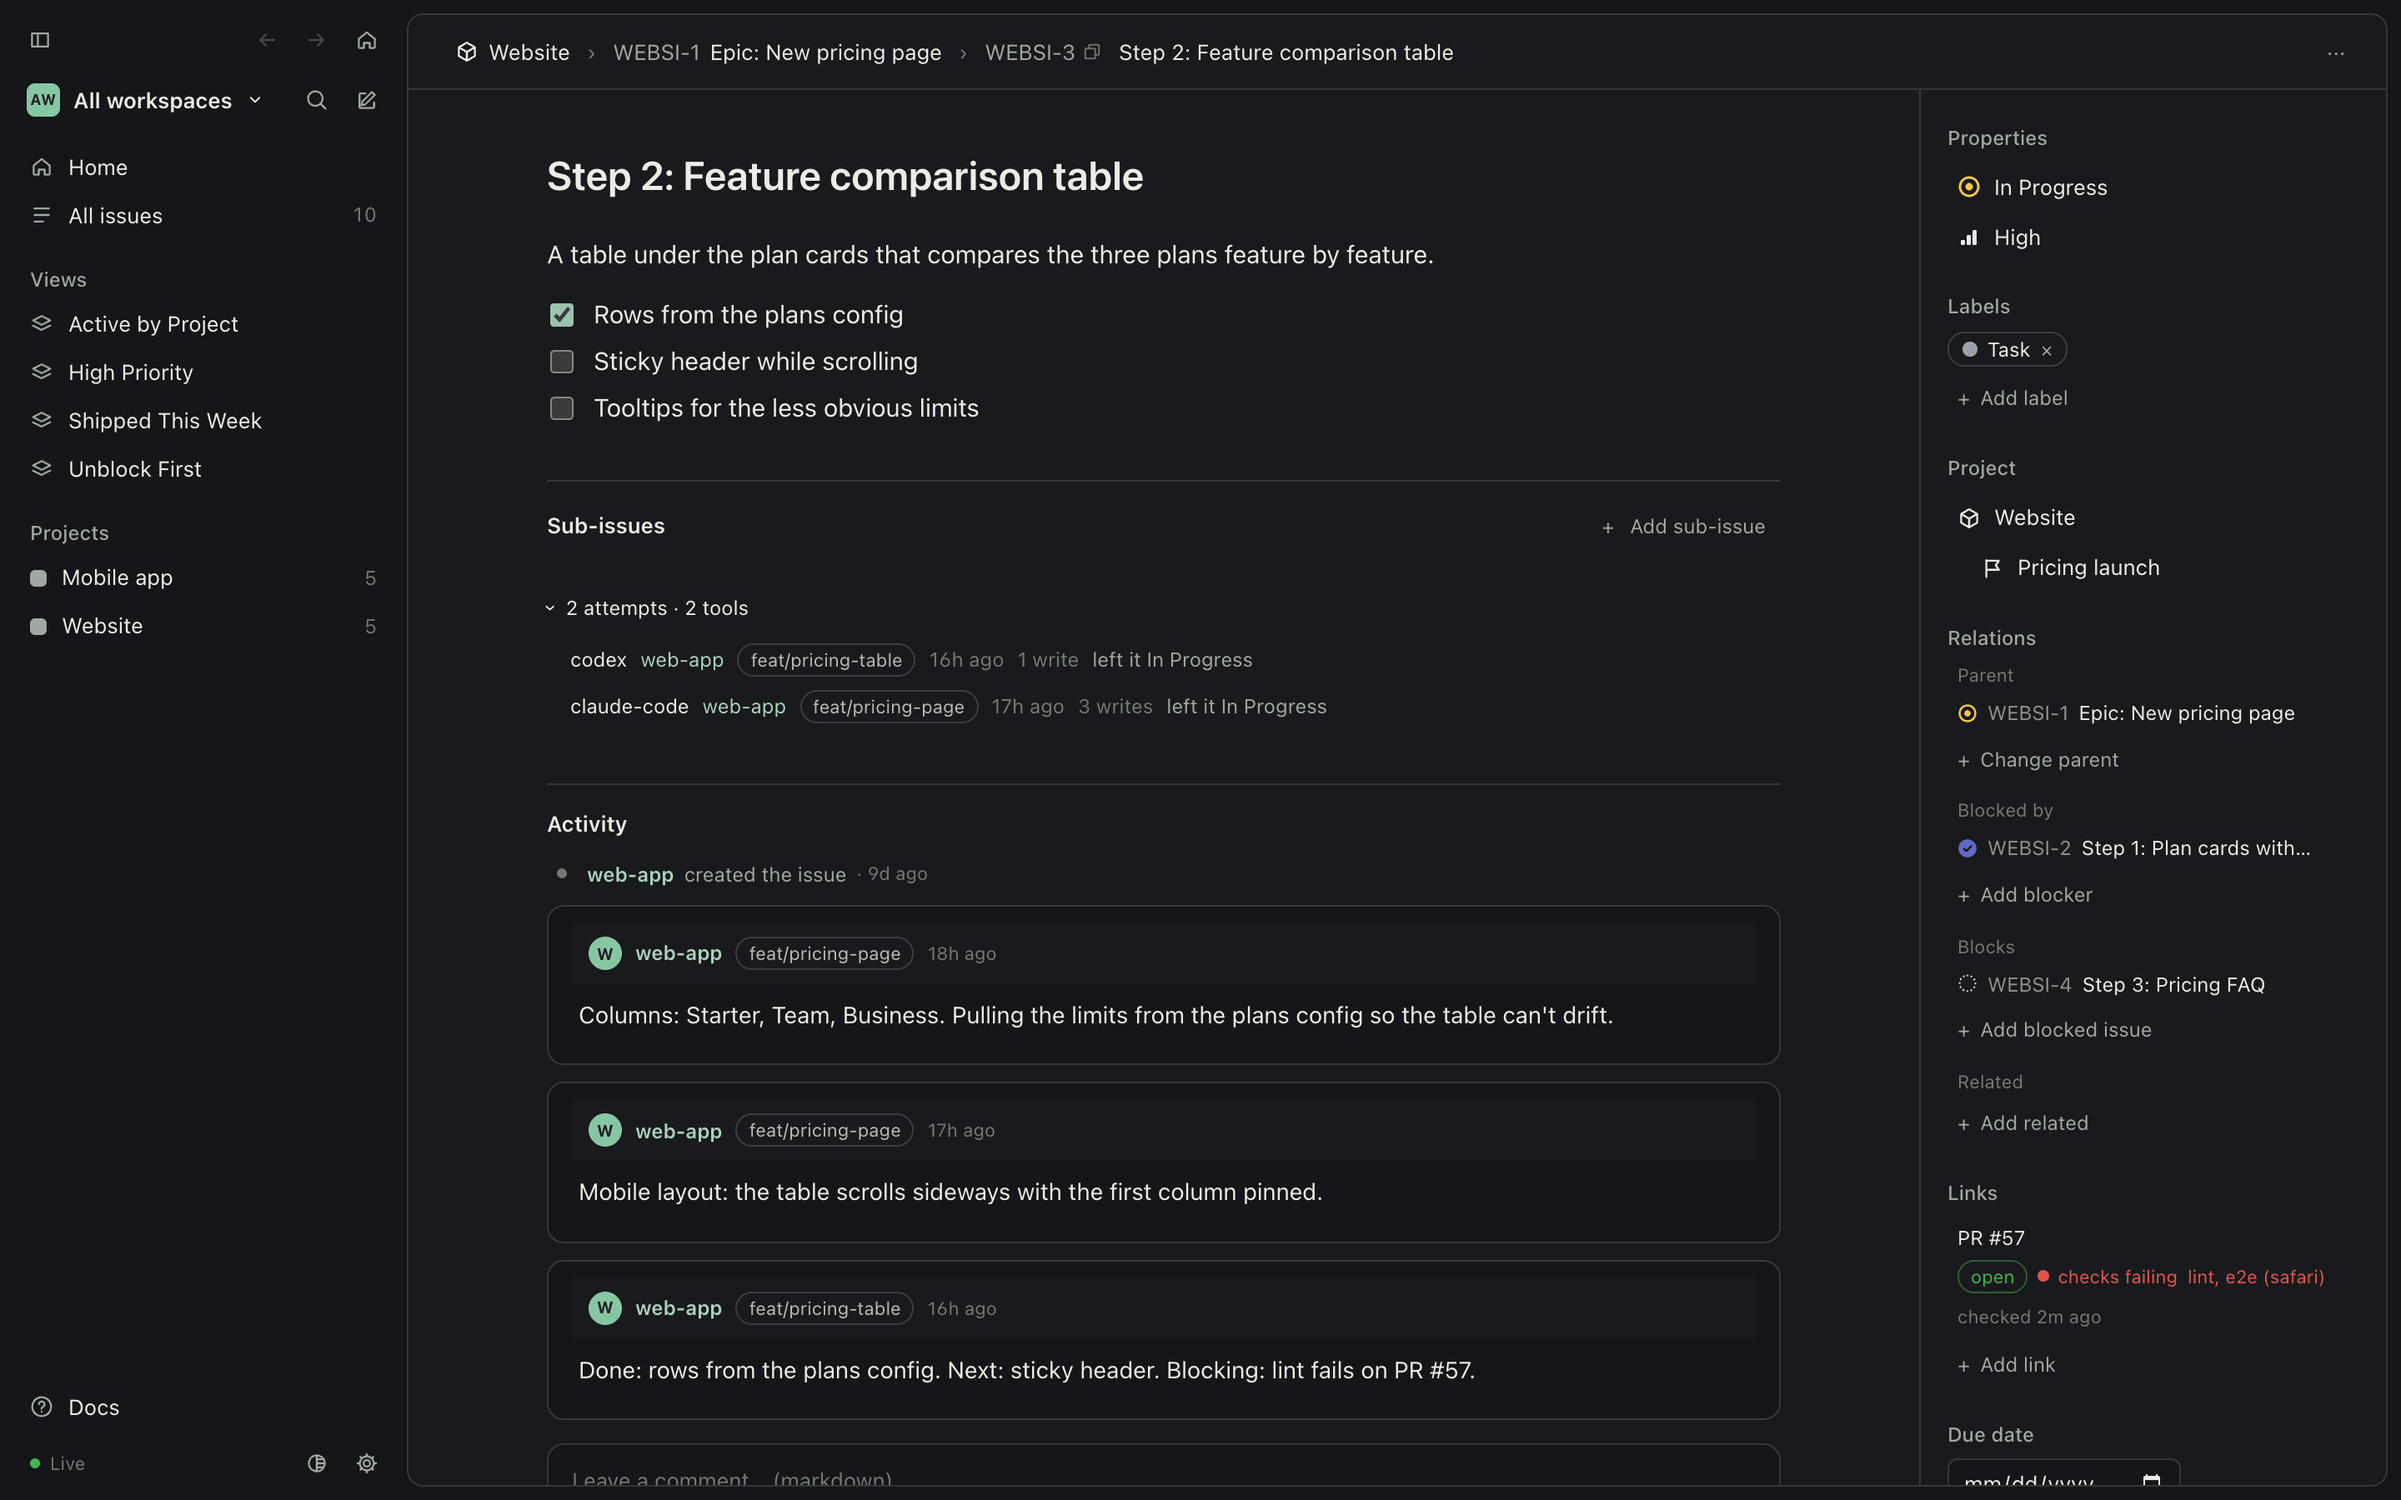
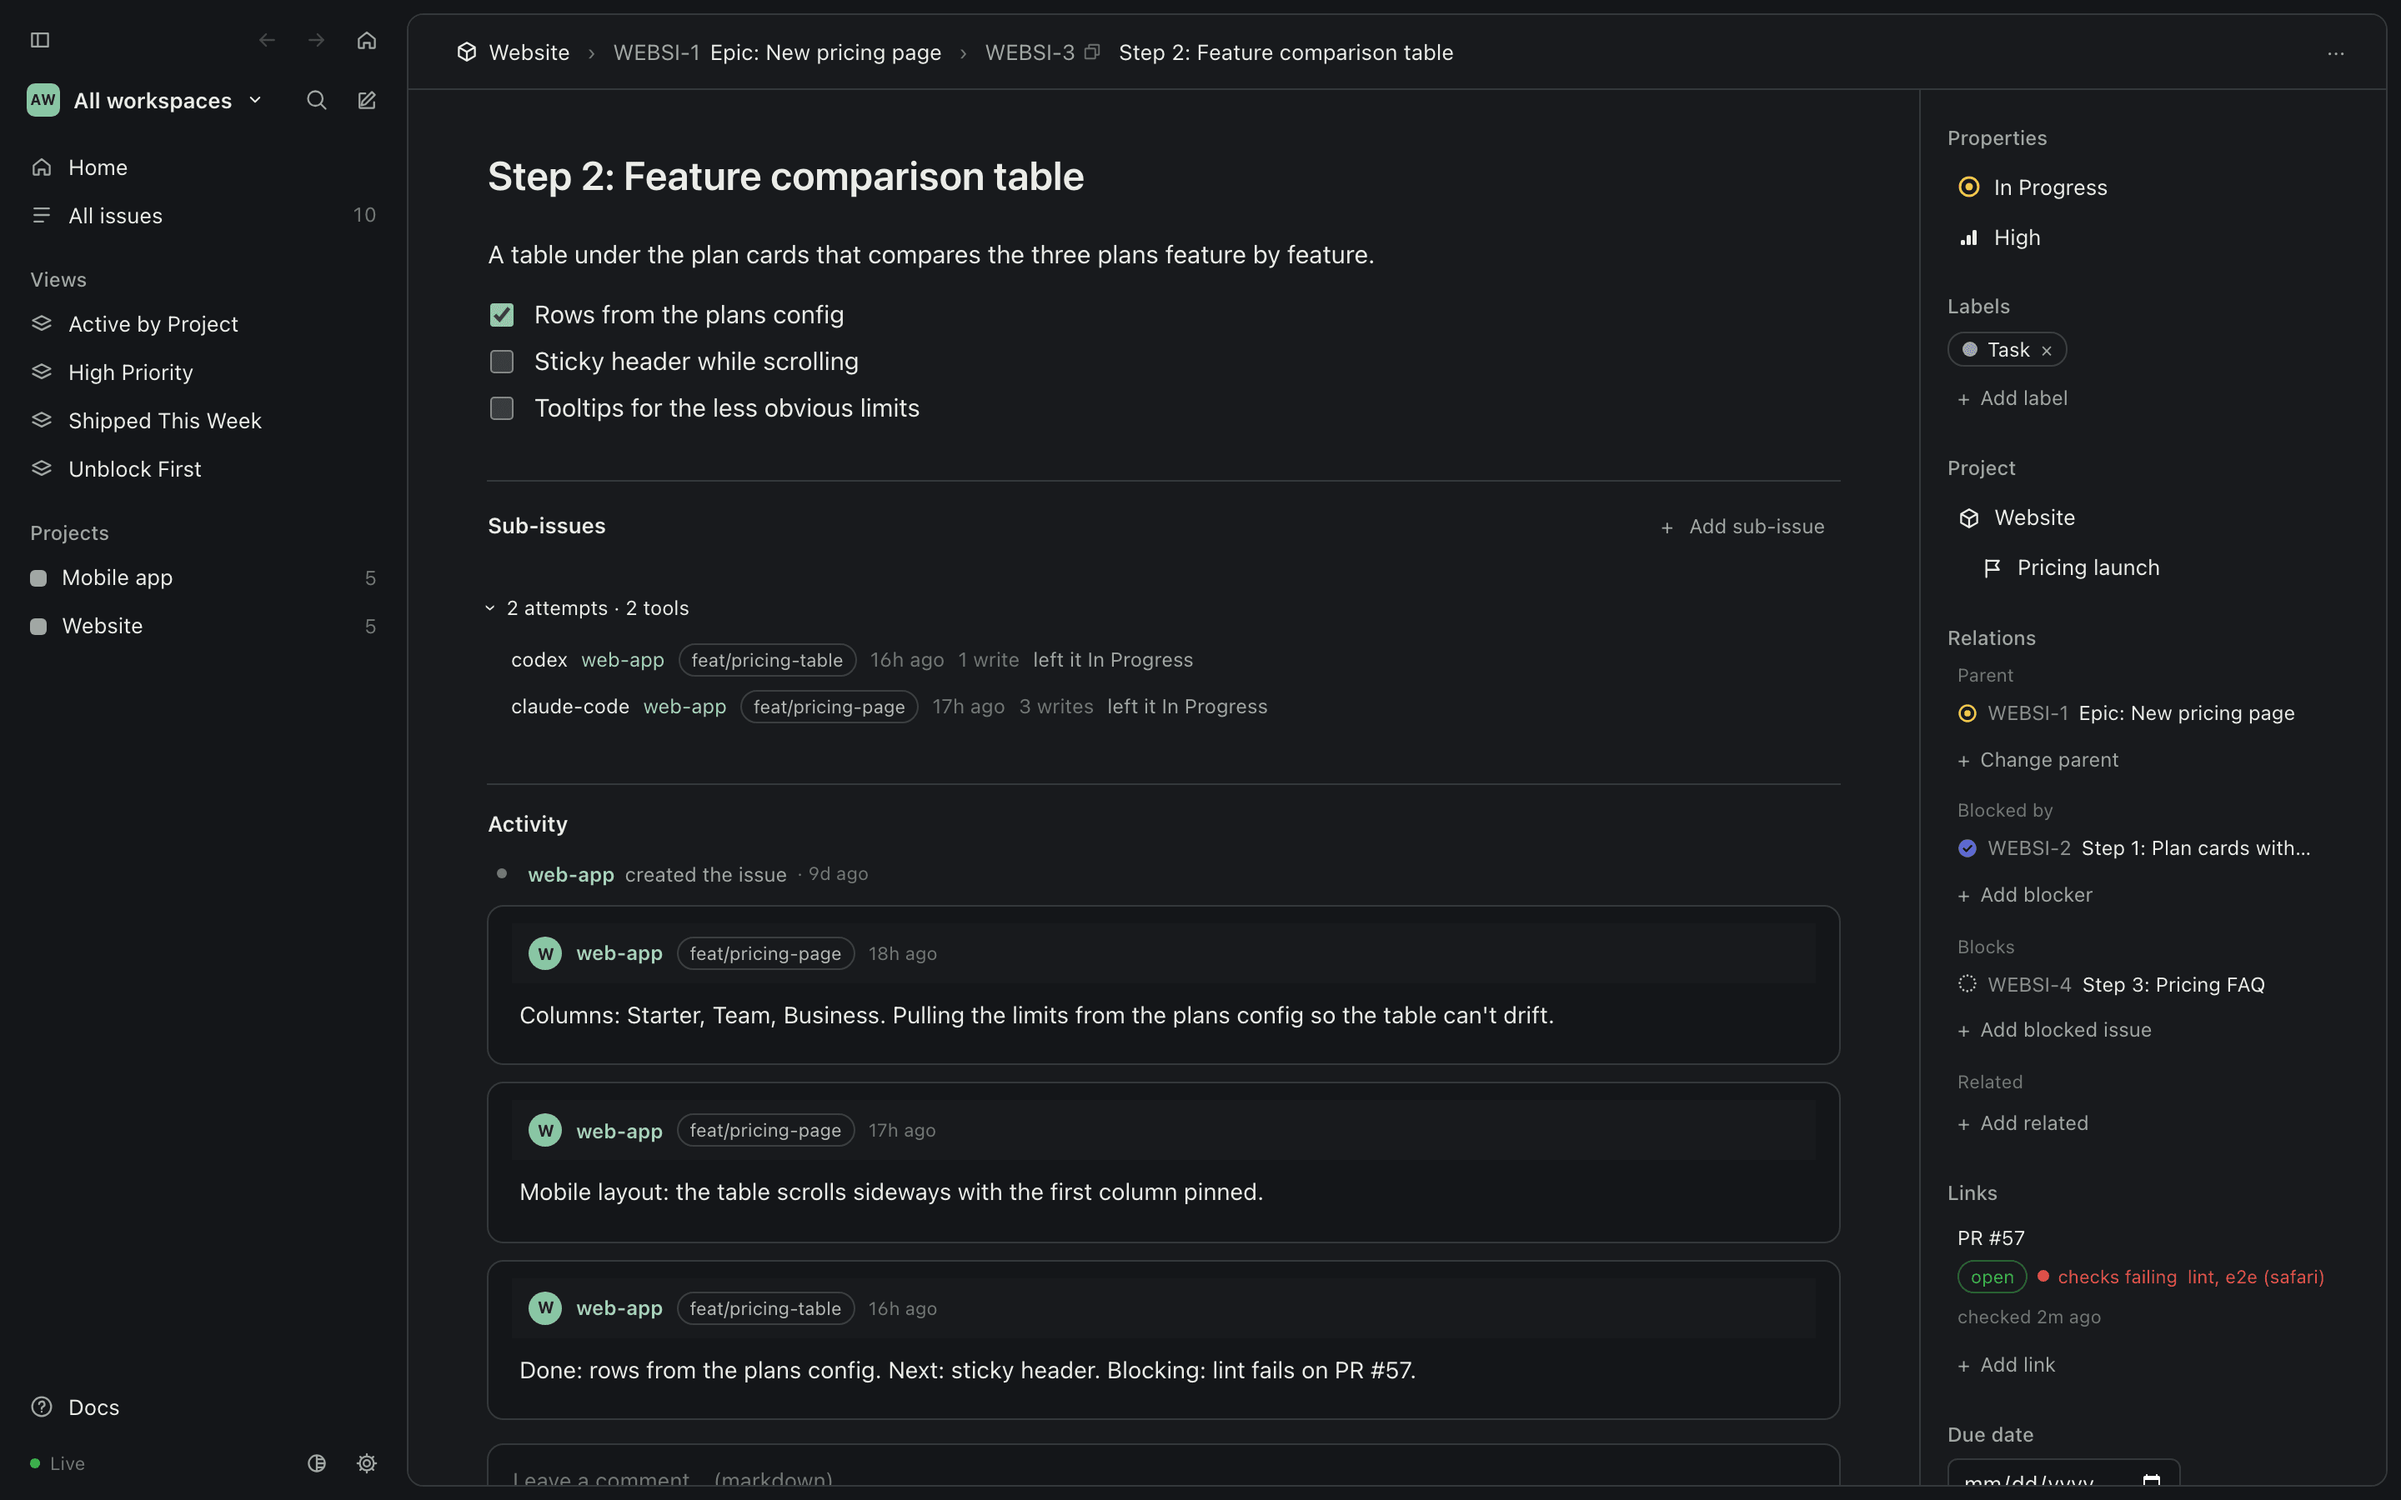
feat(ui): stretch the issue page column and scale its type with the window (#7)
The center column was capped at 820px. It now widens up to 1400px and the
title, description, comments and sub-issue rows grow with the available
width (container query units), never below the old sizes.

Refs ATT-74

diff --git a/ui/styles.css b/ui/styles.css
@@ -466,11 +466,12 @@ a.ov-event-main:hover { text-decoration: underline; }
 .confirm { padding: 6px 8px; max-width: 300px; white-space: normal; }
 .confirm p { margin: 0 0 6px; }
 .banner { padding: 6px 24px; }
-.issue-body { display: grid; grid-template-columns: minmax(0, 1fr) 280px; min-height: calc(100% - 45px); }
-.issue-main { width: 100%; max-width: 820px; margin: 0 auto; padding: 36px 40px 48px; min-width: 0; }
+.issue-body { display: grid; grid-template-columns: minmax(0, 1fr) 280px; min-height: calc(100% - 45px); container-type: inline-size; }
+/* the column widens with the window; type grows with it (cqi = width of .issue-body) */
+.issue-main { width: 100%; max-width: 1400px; margin: 0 auto; padding: 36px clamp(40px, 4cqi, 72px) 48px; min-width: 0; font-size: clamp(13px, .2cqi + 10px, 15px); }
 .issue-title {
   display: block; width: 100%; resize: none; overflow: hidden; background: none; border: 0; outline: none; padding: 0;
-  font-size: 24px; line-height: 1.33; font-weight: 600; color: var(--text); margin-bottom: 18px;
+  font-size: clamp(24px, .6cqi + 16px, 30px); line-height: 1.33; font-weight: 600; color: var(--text); margin-bottom: 18px;
 }
 .desc { position: relative; }
 .desc-edit-btn { position: absolute; right: -8px; top: -30px; opacity: 0; }
@@ -509,7 +510,9 @@ a.ov-event-main:hover { text-decoration: underline; }
 .sub-issues { margin-top: 32px; border-top: 1px solid var(--border); padding-top: 14px; }
 .sub-head { display: flex; align-items: center; gap: 8px; margin-bottom: 6px; }
 .sub-head .ghost-btn { margin-left: auto; }
-.issue-main h2 { font-size: 13px; font-weight: 600; margin: 0; }
+.issue-main .markdown { font-size: clamp(15px, .2cqi + 12px, 17px); }
+.issue-main .act-body { font-size: clamp(14px, .2cqi + 11px, 16px); }
+.issue-main h2 { font-size: 1em; font-weight: 600; margin: 0; }
 .tree-row { display: flex; align-items: center; gap: 4px; height: 34px; border-radius: var(--radius); }
 .tree-row:hover { background: var(--hover); }
 .tree-toggle { width: 18px; height: 18px; flex: none; display: grid; place-items: center; background: none; border: 0; padding: 0; color: var(--muted); transform: rotate(-90deg); transition: transform .1s; }
